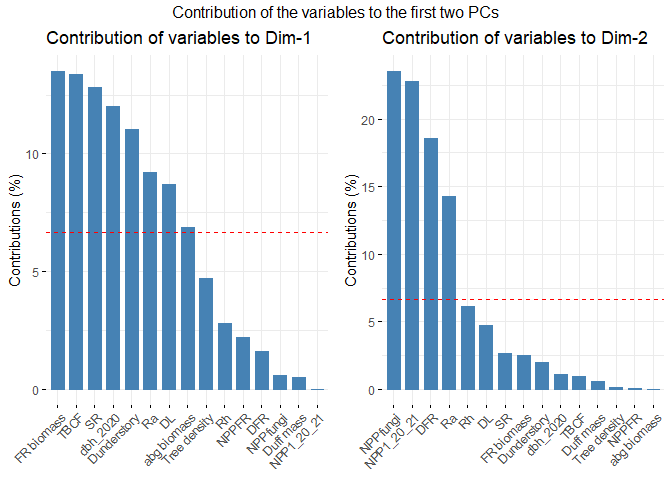
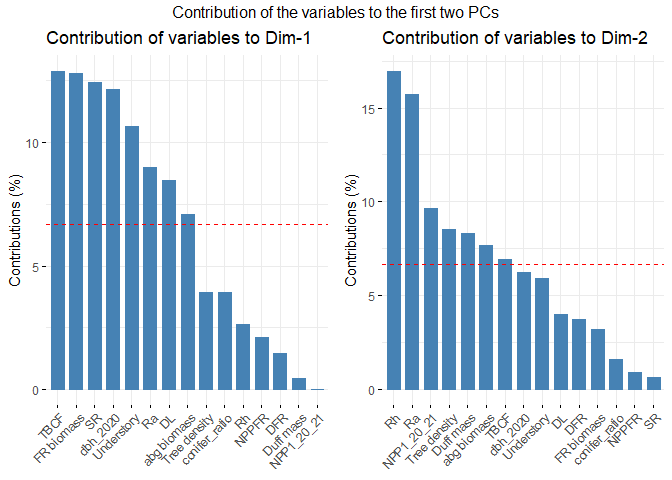
added frame

diff --git a/Codes/CBC_PCA.md b/Codes/CBC_PCA.md
@@ -32,7 +32,7 @@ cbc_annual_raw <-
     ## • `` -> `...52`
     ## • `` -> `...58`
     ## • `` -> `...63`
-    ## • `` -> `...73`
+    ## • `` -> `...75`
 
 ``` r
 cbc_annual <- 
@@ -40,29 +40,38 @@ cbc_annual <-
   mutate(stands = substring(Site, 1,2),
          plot = as.character(substring(Site, 4,4))) %>%
   select(c(stands, plot, SR, Rh_season, Ra_season, Litter, NPP_coarse, TBCF, Understory_veg,
-           `SR- Q10`, `Ra- Q10`,
-           dcs_avg_m, dcs_avg_p, `NPP_fungi_new`, `Balance`, 
+           `SR- Q10`, `Ra- Q10`, `Rh- Q10`,
+           dcs_avg_m, dcs_avg_p, `Balance`, 
            `Duff layer (gC m-2)`, `Duff depth (cm)`, 
            `LF+DF`,`FR: 0-10 cm`, `FR: 10-20 cm`, `FR: 20-30 cm`, `FR: top 30 cm`,
            `dbh_2020 (cm)`, `dbh_2021 (cm)`, `NPP1_20_21 (g/m2)`, `NPP2_20_21 (g/m2)`, 
-           `Tree density (per ac)`,`abg biomass (kg/m2)`)) %>% 
-  mutate(across(3:28, as.numeric))
+           `Tree density (per ac)`,`abg biomass (kg/m2)`,
+            LAI_20_summer, `conifer ratio`)) %>% 
+  mutate(across(3:30, as.numeric))
+```
 
-colnames(cbc_annual) <- c("stands", "plot", "SR", "Rh", "Ra", "DL", "NPP_coarse","TBCF", "Dunderstory",
-           "SR-Q10", "Ra-Q10", "DFR", "NPPFR", "NPPfungi", "ASCB", 
+    ## Warning: There were 4 warnings in `mutate()`.
+    ## The first warning was:
+    ## ℹ In argument: `across(3:30, as.numeric)`.
+    ## Caused by warning:
+    ## ! NAs introduced by coercion
+    ## ℹ Run `dplyr::last_dplyr_warnings()` to see the 3 remaining warnings.
+
+``` r
+colnames(cbc_annual) <- c("stands", "plot", "SR", "Rh", "Ra", "DL", "NPP_coarse","TBCF", "Understory",
+           "SR-Q10", "Ra-Q10","Rh-Q10", "DFR", "NPPFR", "ASCB", 
            "Duff mass", "Duff depth", 
            "FR biomass","FR: 0-10 cm", "FR: 10-20 cm", "FR: 20-30 cm", "FR: top 30 cm",
            "dbh_2020", "dbh_2021", "NPP1_20_21", "NPP2_20_21", 
-           "Tree density","abg biomass")
+           "Tree density","abg biomass","LAI20", "conifer_ratio")
 
 
 
 cbc_annual_key <- 
   cbc_annual %>% 
   select(stands, SR, Rh, Ra, DL, TBCF, DFR, NPPFR, 
-         `FR biomass`,NPPfungi,
-         `Dunderstory`, `Duff mass`, dbh_2020, `Tree density`, `abg biomass`,
-         `NPP1_20_21`)
+         `FR biomass`, Understory, `Duff mass`, dbh_2020, `Tree density`, `abg biomass`,
+         `NPP1_20_21`, `Tree density`, `abg biomass`, conifer_ratio)
 
 summary(cbc_annual_key)
 ```
@@ -75,26 +84,34 @@ summary(cbc_annual_key)
     ##                     3rd Qu.:1337   3rd Qu.:749.7   3rd Qu.:605.6  
     ##                     Max.   :1612   Max.   :848.3   Max.   :909.9  
     ##        DL             TBCF             DFR            NPPFR      
-    ##  Min.   :224.9   Min.   : 549.1   Min.   :117.3   Min.   :162.5  
-    ##  1st Qu.:270.7   1st Qu.: 690.1   1st Qu.:167.8   1st Qu.:184.5  
-    ##  Median :323.3   Median : 772.1   Median :189.6   Median :203.5  
-    ##  Mean   :313.7   Mean   : 801.3   Mean   :207.5   Mean   :213.7  
-    ##  3rd Qu.:345.4   3rd Qu.: 850.1   3rd Qu.:247.7   3rd Qu.:230.6  
+    ##  Min.   :224.9   Min.   : 557.7   Min.   :117.3   Min.   :162.5  
+    ##  1st Qu.:270.7   1st Qu.: 692.8   1st Qu.:167.8   1st Qu.:184.5  
+    ##  Median :323.3   Median : 777.9   Median :189.6   Median :203.5  
+    ##  Mean   :313.7   Mean   : 806.2   Mean   :207.5   Mean   :213.7  
+    ##  3rd Qu.:345.4   3rd Qu.: 864.7   3rd Qu.:247.7   3rd Qu.:230.6  
     ##  Max.   :406.1   Max.   :1187.8   Max.   :356.0   Max.   :281.6  
-    ##    FR biomass       NPPfungi        Dunderstory        Duff mass     
-    ##  Min.   :106.5   Min.   :-121.53   Min.   : 0.6733   Min.   : 36.88  
-    ##  1st Qu.:110.2   1st Qu.: -68.71   1st Qu.: 5.4267   1st Qu.: 68.60  
-    ##  Median :130.9   Median : -22.26   Median :20.1533   Median : 88.11  
-    ##  Mean   :133.7   Mean   : -24.90   Mean   :22.7678   Mean   : 90.85  
-    ##  3rd Qu.:157.2   3rd Qu.:  20.06   3rd Qu.:34.8583   3rd Qu.:103.66  
-    ##  Max.   :175.0   Max.   :  95.63   Max.   :58.7933   Max.   :148.34  
-    ##     dbh_2020      Tree density     abg biomass       NPP1_20_21     
-    ##  Min.   :14.68   Min.   : 60.89   Min.   : 5.194   Min.   :  43.93  
-    ##  1st Qu.:21.19   1st Qu.:125.09   1st Qu.:12.441   1st Qu.: 302.79  
-    ##  Median :24.51   Median :166.32   Median :16.022   Median : 458.18  
-    ##  Mean   :26.26   Mean   :216.08   Mean   :15.929   Mean   : 573.17  
-    ##  3rd Qu.:32.11   3rd Qu.:209.25   3rd Qu.:20.724   3rd Qu.: 759.32  
-    ##  Max.   :41.55   Max.   :722.07   Max.   :24.265   Max.   :1616.33
+    ##    FR biomass      Understory        Duff mass         dbh_2020    
+    ##  Min.   :106.5   Min.   : 0.6733   Min.   : 36.88   Min.   :14.68  
+    ##  1st Qu.:110.2   1st Qu.: 5.4267   1st Qu.: 68.60   1st Qu.:21.19  
+    ##  Median :130.9   Median :20.1533   Median : 88.11   Median :24.51  
+    ##  Mean   :133.7   Mean   :22.7678   Mean   : 90.85   Mean   :26.26  
+    ##  3rd Qu.:157.2   3rd Qu.:34.8583   3rd Qu.:103.66   3rd Qu.:32.11  
+    ##  Max.   :175.0   Max.   :58.7933   Max.   :148.34   Max.   :41.55  
+    ##   Tree density     abg biomass       NPP1_20_21      conifer_ratio   
+    ##  Min.   : 60.89   Min.   : 5.194   Min.   :  43.93   Min.   :0.1923  
+    ##  1st Qu.:125.09   1st Qu.:12.441   1st Qu.: 302.79   1st Qu.:0.3081  
+    ##  Median :166.32   Median :16.022   Median : 458.18   Median :0.6126  
+    ##  Mean   :216.08   Mean   :15.929   Mean   : 573.17   Mean   :0.5532  
+    ##  3rd Qu.:209.25   3rd Qu.:20.724   3rd Qu.: 759.32   3rd Qu.:0.7132  
+    ##  Max.   :722.07   Max.   :24.265   Max.   :1616.33   Max.   :1.0000
+
+``` r
+# only env
+cbc_stands <- 
+  cbc_annual %>% 
+  select(stands, `FR biomass`, Understory, `Duff mass`, dbh_2020, `Tree density`, `abg biomass`,
+         `NPP1_20_21`, `Tree density`, `abg biomass`, conifer_ratio)
+```
 
 ``` r
 res.pca <- prcomp(cbc_annual_key[,-1], scale = T)
@@ -102,73 +119,73 @@ print(res.pca)
 ```
 
     ## Standard deviations (1, .., p=12):
-    ##  [1] 2.340161e+00 1.662107e+00 1.523488e+00 1.389404e+00 1.042133e+00
-    ##  [6] 8.213854e-01 6.551308e-01 4.499325e-01 3.055703e-01 1.238784e-01
-    ## [11] 9.229870e-02 3.644859e-16
+    ##  [1] 2.373954e+00 1.558519e+00 1.501327e+00 1.387953e+00 1.088749e+00
+    ##  [6] 7.583182e-01 7.519621e-01 4.508110e-01 3.728782e-01 2.771389e-01
+    ## [11] 1.001033e-01 2.151536e-16
     ## 
     ## Rotation (n x k) = (15 x 12):
-    ##                       PC1          PC2         PC3         PC4          PC5
-    ## SR            0.358311884  0.163904853  0.08059836 -0.28773054 -0.184946153
-    ## Rh            0.166713667 -0.248045223  0.30592436 -0.31685220 -0.465300547
-    ## Ra            0.303456821  0.377880427 -0.12961455 -0.10879514  0.122938880
-    ## DL            0.294790371  0.217367190 -0.02770051  0.23852550  0.119336560
-    ## TBCF          0.365954304  0.096302504 -0.26631049 -0.10274162  0.129194737
-    ## DFR           0.126099781 -0.430442696 -0.25059498  0.31022863 -0.018346350
-    ## NPPFR         0.148584497  0.018779719 -0.20328868  0.46930116 -0.521135609
-    ## FR biomass    0.367643169 -0.157567792  0.05526421  0.18959508 -0.278441312
-    ## NPPfungi      0.077330138 -0.485259092 -0.15456017 -0.04644524  0.406489625
-    ## Dunderstory  -0.332350632  0.141269765 -0.23473759 -0.02537594 -0.368810156
-    ## Duff mass     0.071396964  0.076687546 -0.31665215 -0.49792649 -0.094808984
-    ## dbh_2020     -0.346774359  0.105849782 -0.23601677 -0.13518919 -0.162748774
-    ## Tree density  0.216904379 -0.035504964  0.47729299 -0.08519618  0.008787244
-    ## abg biomass  -0.262548974 -0.002492451  0.46666737  0.07833427 -0.001472801
-    ## NPP1_20_21   -0.001683325 -0.477541387 -0.15393924 -0.32046037 -0.130327832
-    ##                      PC6          PC7         PC8         PC9        PC10
-    ## SR           -0.04886154 -0.007378236  0.18544430 -0.08063791 -0.29779257
-    ## Rh            0.07440572 -0.215205459  0.10730471 -0.18461026 -0.39013761
-    ## Ra           -0.11298968  0.149863571  0.14155736  0.04013864 -0.06674395
-    ## DL            0.47834903 -0.444397359  0.32023595  0.22551272  0.11531827
-    ## TBCF         -0.09501718  0.244798865  0.05652849  0.22463776 -0.20138274
-    ## DFR           0.22971322  0.026695632  0.38347989 -0.11289107 -0.02047251
-    ## NPPFR        -0.03505024  0.202522884 -0.39320696  0.34796753 -0.22866971
-    ## FR biomass    0.10042744  0.057380499 -0.12991238 -0.41157010  0.44605853
-    ## NPPfungi      0.27060073  0.230686216 -0.10552393 -0.02470696 -0.40147832
-    ## Dunderstory   0.14742460  0.099421149  0.45108606  0.17568668 -0.04541338
-    ## Duff mass     0.52971266 -0.080035064 -0.44985315  0.08402839  0.20773922
-    ## dbh_2020      0.22532379  0.395813436  0.17082423 -0.30590808  0.02929166
-    ## Tree density  0.16774499  0.619540627  0.16765960  0.23253017  0.30807119
-    ## abg biomass   0.36575976 -0.013235757 -0.10959319  0.33792775 -0.18772667
-    ## NPP1_20_21   -0.29855919 -0.136222362  0.15323908  0.50288110  0.33424098
-    ##                     PC11          PC12
-    ## SR            0.09675757 -0.4089138939
-    ## Rh           -0.15141537  0.3017573142
-    ## Ra            0.22675088 -0.1898243901
-    ## DL           -0.43847370  0.0409244842
-    ## TBCF          0.08750817  0.5170851721
-    ## DFR           0.51727238  0.2018362614
-    ## NPPFR        -0.16992231 -0.0429599735
-    ## FR biomass    0.06302947 -0.2236113161
-    ## NPPfungi     -0.27321063 -0.3996781914
-    ## Dunderstory   0.10519484 -0.3485440957
-    ## Duff mass     0.21267785  0.0334093980
-    ## dbh_2020     -0.34466299  0.2326255776
-    ## Tree density -0.11193760  0.0404112104
-    ## abg biomass   0.37584581 -0.0004510917
-    ## NPP1_20_21   -0.11152112 -0.0772757830
+    ##                        PC1         PC2         PC3         PC4           PC5
+    ## SR             0.352737536  0.07817115 -0.17647836  0.27814519 -0.1327645662
+    ## Rh             0.162670681 -0.41193305 -0.05862131  0.33380325 -0.3267972746
+    ## Ra             0.299804307  0.39667955 -0.16677650  0.08489382  0.0829290965
+    ## DL             0.291152374  0.19978460 -0.13364212 -0.25597917  0.0407083068
+    ## TBCF           0.359153292  0.26345101  0.10479811  0.09017707  0.0004692549
+    ## DFR            0.120937210 -0.19294221  0.45479998 -0.28640612 -0.1855296129
+    ## NPPFR          0.144697834  0.09625284  0.19811574 -0.46001752 -0.4199951080
+    ## FR biomass     0.358074562 -0.17910332  0.06109237 -0.18236289 -0.2930327128
+    ## Understory    -0.326285207  0.24344226  0.12303723  0.02793558 -0.2804713860
+    ## Duff mass      0.065232000  0.28868724  0.12694128  0.48786503 -0.2670131301
+    ## dbh_2020      -0.348560397  0.24914132  0.08381396  0.12560032 -0.2741497341
+    ## Tree density   0.198487868 -0.29203086 -0.42264559  0.06034188 -0.1902242448
+    ## abg biomass   -0.265924768 -0.27670951 -0.37582592 -0.09303449 -0.0356182845
+    ## NPP1_20_21     0.006047446 -0.31062614  0.45820205  0.36377134 -0.0161825272
+    ## conifer_ratio -0.198314935  0.12625970 -0.30139004 -0.06520250 -0.5545476577
+    ##                       PC6          PC7         PC8         PC9         PC10
+    ## SR            -0.03999339 -0.233556057 -0.18932343 -0.17446161 -0.003586532
+    ## Rh             0.18568399 -0.305837740 -0.09804117 -0.32758120 -0.025159762
+    ## Ra            -0.18446845 -0.052452674 -0.15300192  0.03389219  0.014279475
+    ## DL             0.62344376  0.110277158 -0.28469796 -0.12647178  0.273124765
+    ## TBCF          -0.23490838  0.205054880 -0.11463411  0.13263516  0.198042385
+    ## DFR            0.13363706  0.481339658 -0.29544127 -0.03128587 -0.116555122
+    ## NPPFR         -0.12082413 -0.443630691  0.28002602  0.29414028  0.293806050
+    ## FR biomass     0.03875047 -0.057348194  0.13289845 -0.02203353 -0.491559141
+    ## Understory     0.09949684 -0.320640269 -0.55033754  0.09989296  0.063474217
+    ## Duff mass      0.45233452  0.205216727  0.44144582  0.30628107 -0.028455416
+    ## dbh_2020      -0.04584011  0.051569178 -0.22703031  0.13423715 -0.408287970
+    ## Tree density  -0.22220838  0.231949509 -0.26523398  0.56555442 -0.041346997
+    ## abg biomass    0.32472792 -0.005141467  0.01799859  0.29918032  0.226893012
+    ## NPP1_20_21    -0.14975877  0.050764820 -0.10983041  0.07778899  0.488824935
+    ## conifer_ratio -0.24126840  0.398976930  0.14681497 -0.44979654  0.283049876
+    ##                      PC11        PC12
+    ## SR             0.23130064 -0.37721090
+    ## Rh             0.08428976  0.50369335
+    ## Ra             0.21308804  0.27666587
+    ## DL            -0.45277893  0.07701117
+    ## TBCF           0.20130264  0.17193096
+    ## DFR            0.43680730  0.06161713
+    ## NPPFR         -0.01198298  0.17969433
+    ## FR biomass    -0.17050462 -0.33212960
+    ## Understory     0.10838977 -0.37249882
+    ## Duff mass      0.07911606 -0.09824301
+    ## dbh_2020      -0.26782340  0.41692984
+    ## Tree density  -0.23868106 -0.03592967
+    ## abg biomass    0.42695275  0.04567308
+    ## NPP1_20_21    -0.31133230 -0.10115136
+    ## conifer_ratio -0.05018983 -0.09862587
 
 ``` r
 summary(res.pca)
 ```
 
     ## Importance of components:
-    ##                           PC1    PC2    PC3    PC4    PC5     PC6     PC7
-    ## Standard deviation     2.3402 1.6621 1.5235 1.3894 1.0421 0.82139 0.65513
-    ## Proportion of Variance 0.3651 0.1842 0.1547 0.1287 0.0724 0.04498 0.02861
-    ## Cumulative Proportion  0.3651 0.5493 0.7040 0.8327 0.9051 0.95008 0.97869
-    ##                           PC8     PC9    PC10    PC11      PC12
-    ## Standard deviation     0.4499 0.30557 0.12388 0.09230 3.645e-16
-    ## Proportion of Variance 0.0135 0.00622 0.00102 0.00057 0.000e+00
-    ## Cumulative Proportion  0.9922 0.99841 0.99943 1.00000 1.000e+00
+    ##                           PC1    PC2    PC3    PC4     PC5     PC6    PC7
+    ## Standard deviation     2.3740 1.5585 1.5013 1.3880 1.08875 0.75832 0.7520
+    ## Proportion of Variance 0.3757 0.1619 0.1503 0.1284 0.07902 0.03834 0.0377
+    ## Cumulative Proportion  0.3757 0.5376 0.6879 0.8163 0.89536 0.93370 0.9714
+    ##                            PC8     PC9    PC10    PC11      PC12
+    ## Standard deviation     0.45081 0.37288 0.27714 0.10010 2.152e-16
+    ## Proportion of Variance 0.01355 0.00927 0.00512 0.00067 0.000e+00
+    ## Cumulative Proportion  0.98494 0.99421 0.99933 1.00000 1.000e+00
 
 ``` r
 eig.val<-get_eigenvalue(res.pca)
@@ -176,25 +193,25 @@ eig.val
 ```
 
     ##          eigenvalue variance.percent cumulative.variance.percent
-    ## Dim.1  5.476353e+00     3.650902e+01                    36.50902
-    ## Dim.2  2.762599e+00     1.841732e+01                    54.92635
-    ## Dim.3  2.321017e+00     1.547344e+01                    70.39979
-    ## Dim.4  1.930443e+00     1.286962e+01                    83.26941
-    ## Dim.5  1.086040e+00     7.240269e+00                    90.50968
-    ## Dim.6  6.746740e-01     4.497827e+00                    95.00751
-    ## Dim.7  4.291964e-01     2.861309e+00                    97.86882
-    ## Dim.8  2.024393e-01     1.349595e+00                    99.21841
-    ## Dim.9  9.337318e-02     6.224879e-01                    99.84090
-    ## Dim.10 1.534586e-02     1.023057e-01                    99.94321
-    ## Dim.11 8.519051e-03     5.679367e-02                   100.00000
-    ## Dim.12 1.328500e-31     8.856667e-31                   100.00000
+    ## Dim.1  5.635659e+00     3.757106e+01                    37.57106
+    ## Dim.2  2.428982e+00     1.619321e+01                    53.76427
+    ## Dim.3  2.253984e+00     1.502656e+01                    68.79083
+    ## Dim.4  1.926413e+00     1.284275e+01                    81.63358
+    ## Dim.5  1.185374e+00     7.902492e+00                    89.53607
+    ## Dim.6  5.750465e-01     3.833643e+00                    93.36972
+    ## Dim.7  5.654469e-01     3.769646e+00                    97.13936
+    ## Dim.8  2.032306e-01     1.354870e+00                    98.49423
+    ## Dim.9  1.390382e-01     9.269211e-01                    99.42116
+    ## Dim.10 7.680596e-02     5.120397e-01                    99.93320
+    ## Dim.11 1.002066e-02     6.680443e-02                   100.00000
+    ## Dim.12 4.629108e-32     3.086072e-31                   100.00000
 
 ``` r
 fviz_eig(res.pca, col.var="blue")
 ```
 
 ![](CBC_PCA_files/figure-gfm/unnamed-chunk-1-1.png)<!-- --> The first
-two eigenvalues explain 54.93 % of the variation.
+two eigenvalues explain 53.76 % of the variation.
 
 The next two graphs show the quality of representation of variables by
 PC1 and PC2. The 1st graph shows the saure cosine value respect to the
@@ -218,27 +235,27 @@ var
 head(var$cos2)
 ```
 
-    ##           Dim.1      Dim.2       Dim.3      Dim.4        Dim.5       Dim.6
-    ## SR   0.70309478 0.07421666 0.015077548 0.15981920 0.0371480975 0.001610750
-    ## Rh   0.15220673 0.16997284 0.217223288 0.19380747 0.2351327375 0.003735137
-    ## Ra   0.50429569 0.39448145 0.038992922 0.02284946 0.0164143799 0.008613340
-    ## DL   0.47590256 0.13052863 0.001780959 0.10983144 0.0154665340 0.154377423
-    ## TBCF 0.73340720 0.02562082 0.164609476 0.02037745 0.0181274042 0.006091136
-    ## DFR  0.08708034 0.51185681 0.145754843 0.18578935 0.0003655488 0.035601309
-    ##             Dim.7        Dim.8        Dim.9       Dim.10       Dim.11
-    ## SR   2.336475e-05 0.0069618029 0.0006071566 1.360877e-03 7.975558e-05
-    ## Rh   1.987754e-02 0.0023309465 0.0031822466 2.335753e-03 1.953130e-04
-    ## Ra   9.639360e-03 0.0040565763 0.0001504345 6.836204e-05 4.380152e-04
-    ## DL   8.476157e-02 0.0207603603 0.0047485854 2.040739e-04 1.637866e-03
-    ## TBCF 2.572023e-02 0.0006468887 0.0047118091 6.223514e-04 6.523617e-05
-    ## DFR  3.058697e-04 0.0297700735 0.0011899845 6.431812e-06 2.279448e-03
+    ##           Dim.1      Dim.2      Dim.3      Dim.4        Dim.5        Dim.6
+    ## SR   0.70120990 0.01484285 0.07019945 0.14903643 2.089391e-02 0.0009197703
+    ## Rh   0.14912939 0.41217117 0.00774572 0.21464978 1.265937e-01 0.0198267667
+    ## Ra   0.50654778 0.38221167 0.06269321 0.01388358 8.152094e-03 0.0195680341
+    ## DL   0.47773313 0.09695011 0.04025664 0.12622883 1.964361e-03 0.2235103046
+    ## TBCF 0.72694974 0.16858700 0.02475470 0.01566540 2.610195e-07 0.0317321866
+    ## DFR  0.08242607 0.09042298 0.46622083 0.15802068 4.080203e-02 0.0102696776
+    ##            Dim.7       Dim.8        Dim.9       Dim.10       Dim.11
+    ## SR   0.030844243 0.007284467 0.0042318840 9.879715e-07 5.361054e-04
+    ## Rh   0.052890053 0.001953467 0.0149201073 4.861922e-05 7.119445e-05
+    ## Ra   0.001555705 0.004757544 0.0001597104 1.566100e-05 4.550034e-04
+    ## DL   0.006876429 0.016472433 0.0022239308 5.729504e-03 2.054324e-03
+    ## TBCF 0.023775632 0.002670649 0.0024459713 3.012390e-03 4.060649e-04
+    ## DFR  0.131007192 0.017739091 0.0001360913 1.043416e-03 1.911949e-03
     ##            Dim.12
-    ## SR   2.221393e-32
-    ## Rh   1.209699e-32
-    ## Ra   4.787024e-33
-    ## DL   2.224990e-34
-    ## TBCF 3.552105e-32
-    ## DFR  5.412027e-33
+    ## SR   6.586668e-33
+    ## Rh   1.174437e-32
+    ## Ra   3.543304e-33
+    ## DL   2.745394e-34
+    ## TBCF 1.368376e-33
+    ## DFR  1.757520e-34
 
 ``` r
 library("corrplot")
@@ -307,7 +324,9 @@ fviz_contrib(res.pca, choice = "ind", axes = 1:2)
 ![](CBC_PCA_files/figure-gfm/unnamed-chunk-3-3.png)<!-- -->
 
 ``` r
-autoplot(res.pca, loadings=TRUE, loadings.colour='darkorchid4', loadings.label=TRUE, loadings.label.size=3) + theme_bw()
+autoplot(res.pca, data = cbc_annual_key, colour = "stands",
+         loadings=TRUE, loadings.colour='black', loadings.label=TRUE, loadings.label.size=5, 
+         frame = T) + theme_bw()
 ```
 
 ![](CBC_PCA_files/figure-gfm/unnamed-chunk-3-4.png)<!-- -->
@@ -317,3 +336,14 @@ kmeans<-eclust(cbc_annual_key[,-1], k=4) + theme_bw()
 ```
 
 ![](CBC_PCA_files/figure-gfm/unnamed-chunk-3-5.png)<!-- -->
+
+``` r
+# for stand characteristics
+res.pca_std<- prcomp(cbc_stands[,-1], scale = T)
+
+autoplot(res.pca_std, data = cbc_stands, colour = "stands",
+         loadings=TRUE, loadings.colour='black', loadings.label=TRUE, loadings.label.size=5, 
+         frame = T) + theme_bw()
+```
+
+![](CBC_PCA_files/figure-gfm/unnamed-chunk-3-6.png)<!-- -->
